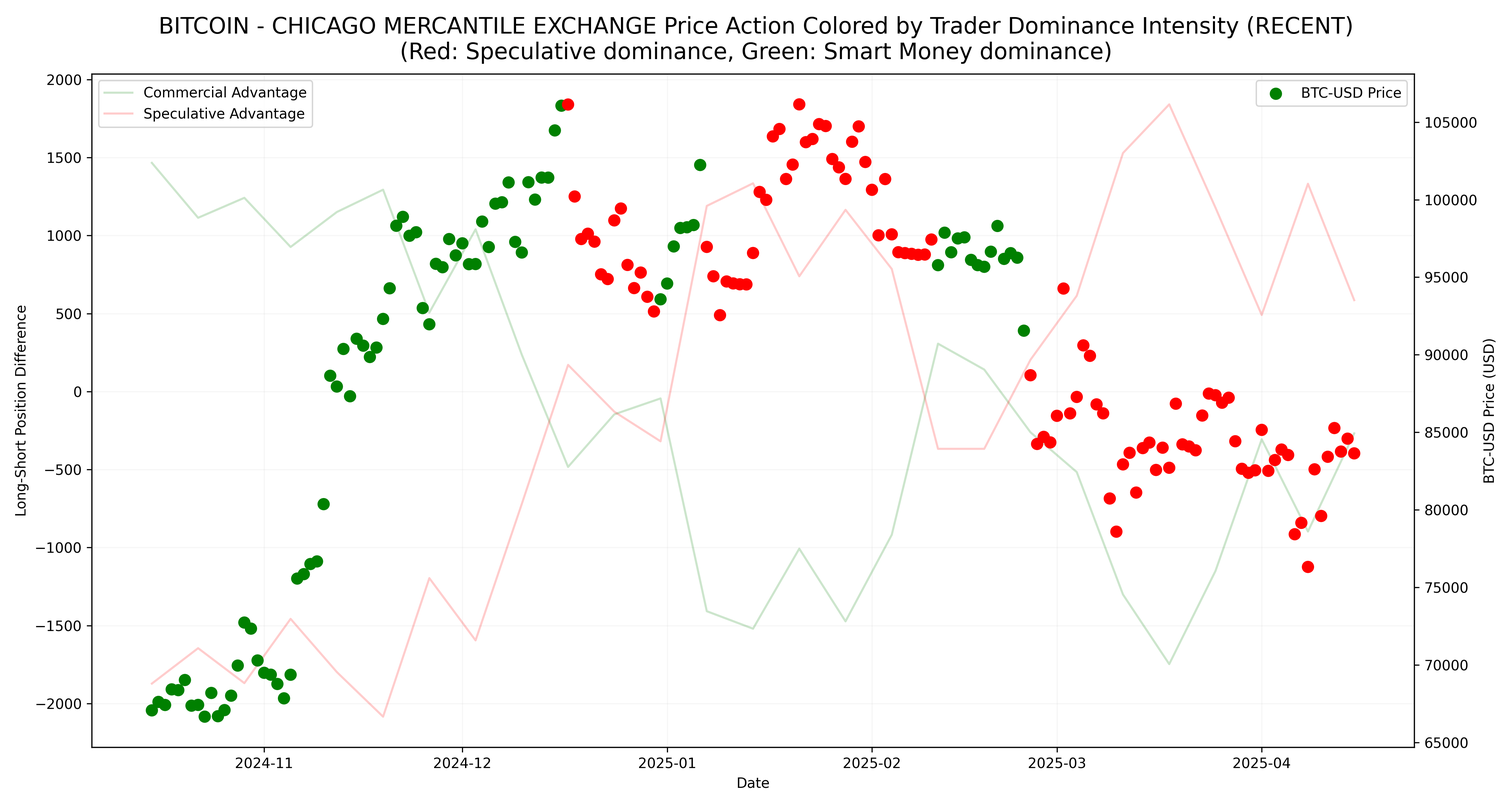
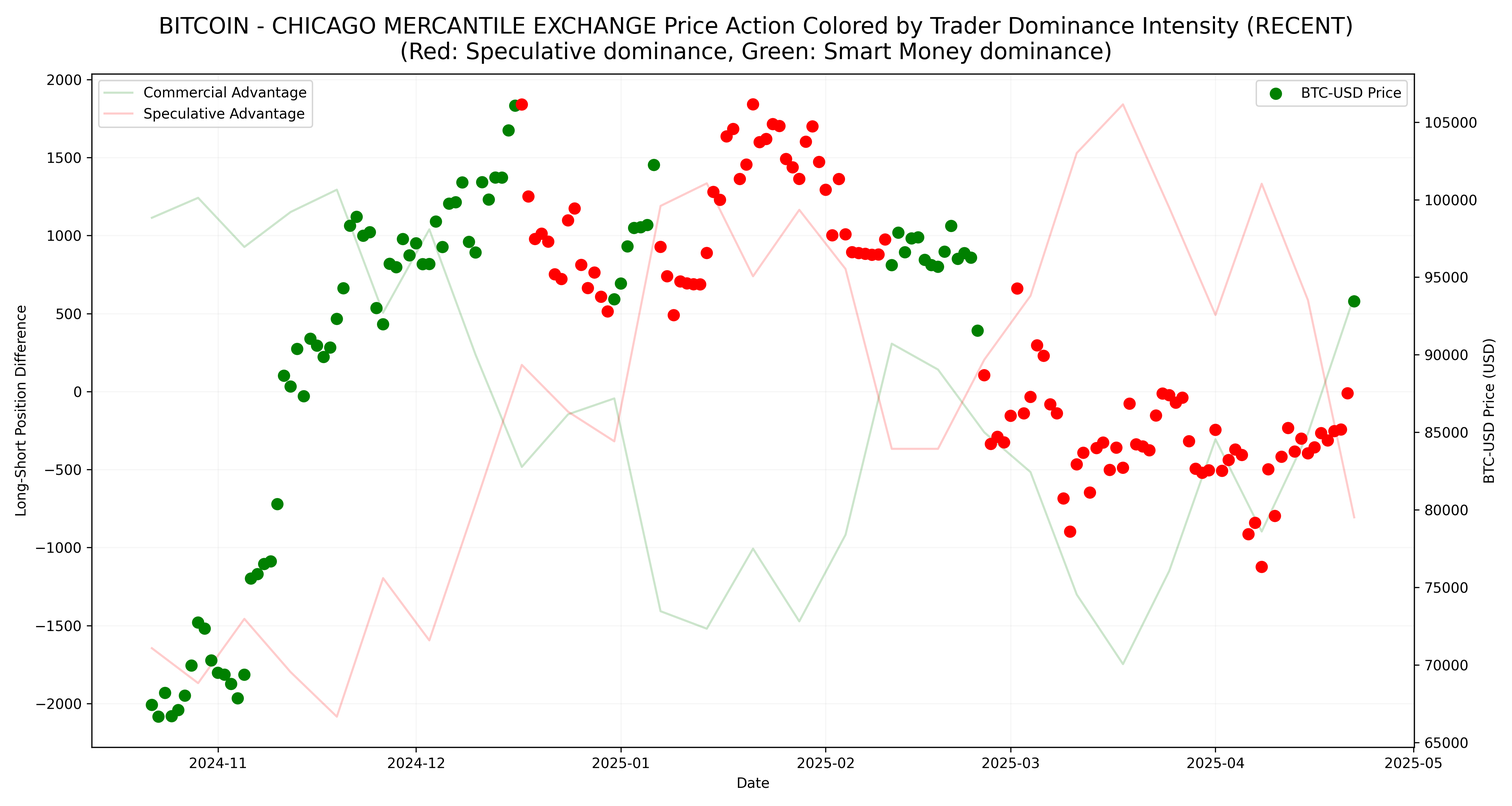
Daily update: 2025-04-26

diff --git a/index.html b/index.html
@@ -32,27 +32,27 @@
 </head>
 <body>
   <header>
-    <h1>Состояние крипто рынка на 25 April 2025 12:54</h1>
+    <h1>Состояние крипто рынка на 26 April 2025 16:32</h1>
     <p class="disclaimer">Эту страницу не следует толковать как финансовый совет.</p>
-     <p> Цена BTC-USD на момент анализа: 94229.99</p>
+     <p> Цена BTC-USD на момент анализа: 94378.32</p>
   </header>
   
   <section id="tldr">
     <h2>Общее Резюме (TLDR):</h2>
     <p>
-<h2>📊 Аналитический обзор крипторынка на 25 апреля 2025 года</h2>
+<h2>Аналитический отчёт по состоянию крипторынка на 26 апреля 2025 года</h2>
 
 <h3>Bitcoin (BTC)</h3>
-<p>BTC торгуется на уровне <strong>$94,229.99</strong>, что значительно ниже модели Stock-to-Flow (<strong>$401,988</strong>) — сохраняется фаза недооцененности. Циклическая модель указывает на зрелость текущего бычьего тренда с возможным пиком в интервале апрель–октябрь 2025 года. Однако <strong>моментум стратегия GTR сохраняет сигнал Sell</strong>, несмотря на недельный рост на фоне ETF-inflows и накопления китов. CFTC показывает начало усиления влияния Smart Money, но доминирование всё ещё у спекулянтов. Ончейн-метрики (рост Miner Unspent Supply, отрицательные биржевые потоки, рост активности адресов) подтверждают накопление, но перекупленность и высокий FOMO (индекс жадности 60) требуют осторожности.</p>
-<p><strong>🟡 На сегодняшний день оптимальной стратегией видится наблюдение и ожидание устойчивой консолидации — сигналы к покупке отсутствуют.</strong></p>
+<p>BTC торгуется на уровне <strong>$94,378</strong> — значительно ниже модели Stock-to-Flow (<strong>$401,579</strong>), что подтверждает фазу глубокой недооценённости. Циклическая модель продолжает указывать на зрелость бычьего тренда с возможным пиком между апрелем и октябрём 2025 года. Моментум по стратегии GTR остаётся в режиме <strong>Sell</strong>, указывая на ослабление восходящего тренда. Однако CFTC отчёт фиксирует укрепление влияния Smart Money, что является ранним бычьим сигналом. Ончейн-данные демонстрируют рост Miner Unspent Supply и отрицательный Net Flow, что говорит о накоплении. Тем не менее, высокий индекс «жадности» (65) требует осторожности. Социальные метрики усиливаются, что также увеличивает риск краткосрочных откатов.</p>
+<p><strong>🟡 На сегодняшний день оптимальной стратегией видится осторожное наблюдение за консолидацией BTC выше $93,000 с акцентом на подтверждение институциональной активности перед любыми покупками.</strong></p>
 
 <h3>Ethereum (ETH)</h3>
-<p>ETH торгуется на <strong>$1,767.17</strong> — слабая коррекция после теста сопротивления <strong>$1,800</strong>. Недельный рост +10%, но месячный тренд остаётся слегка отрицательным. Техническая структура в консолидации. CFTC подтверждает аналогичную BTC картину: рост влияния Smart Money, но спекулянты пока доминируют. Ончейн-сигналы сильны: рекордные покупки долгосрочными держателями и отток с бирж. Социальные метрики и активность адресов стабильны, что указывает на фундаментальную поддержку.</p>
-<p><strong>🟡 На сегодняшний день разумно удерживаться от активных покупок и следить за консолидацией на нынешних уровнях с возможным открытием длинного трейда на уровне 1619, в идеале - после подтверждения институциональной активности.</strong></p>
+<p>ETH консолидируется на уровне <strong>$1,803</strong> после попытки пробоя <strong>$1,839</strong>. Рост за неделю +10%, однако месячный тренд остаётся слегка отрицательным. По данным CFTC, ETH пока под контролем спекулянтов, но влияние Smart Money усиливается. Ончейн-метрики показывают отток монет с бирж и рост активности адресов, что является бычьими сигналами. Социальный сентимент нейтральный. В отличие от BTC, ETH ещё не получил чёткого подтверждения устойчивого институционального спроса.</p>
+<p><strong>🟡 На сегодняшний день разумной стратегией остаётся ожидание консолидации в диапазоне $1750–$1850 и подтверждения перехода под контроль Smart Money для возможного входа в длинные позиции.</strong></p>
 
 <h3>Альткоины</h3>
-<p>Альткоины остаются под давлением высокой доминации BTC. Ротация капитала минимальна, но отдельные активы — <strong>SUI, STX, ONDO, DOGE</strong> — демонстрируют сильный краткосрочный импульс. По <strong>SOL</strong> CFTC сигнализирует о доминировании Smart Money, но рост позиций спекулянтов повышает риск коррекции. Социальные метрики особенно позитивны по Solana. Тем не менее, альткоины в целом требуют жёсткой фильтрации — рынок фрагментирован, объёмы избирательны, и импульсы носят краткосрочный характер.</p>
-<p><strong>🟠 Альткоины требуют выборочного подхода и активного управления — возможны краткосрочные трейды, но с жёстким контролем рисков.</strong></p>
+<p>Альткоины продолжают находиться под давлением доминирования BTC. Общий рынок фрагментирован, объёмы слабые, ротация капитала ограничена. Некоторые активы (<strong>SUI, STX, ONDO, DOGE</strong>) демонстрируют краткосрочную силу, однако по данным CFTC и ончейн активностей большинство альткоинов уязвимы к коррекции. По Solana отмечено усиление позиций спекулянтов, что повышает вероятность краткосрочного отката несмотря на общий бычий настрой.</p>
+<p><strong>🟠 Альткоины требуют крайне выборочного подхода: допустимы краткосрочные сделки в сильных активах при обязательном жёстком контроле риска и подтверждении ончейн-активности.</strong></p>
 
 </p>
   </section>
@@ -69,7 +69,7 @@
     </p>
     <h3>Stock-to-flow, сегодня</h3>
     <img src="all_time_price_s2f_2Ydetail.png" alt="Stock-to-Flow сегодня">
-    <p>Модель Stock-tо-Flow:<br>Последняя дата:		2025-04-24<br>Цена на эту дату:		93849.88<br>Предсказанная цена:	401988.54<br>Предсказанная × 1SE:	719591.87<br>Предсказанная ÷ 1SE:	224564.50<br>Предсказанная × 2SE:	1439183.73<br>Предсказанная ÷ 2SE:	112282.25</p>
+    <p>Модель Stock-tо-Flow:<br>Последняя дата:		2025-04-25<br>Цена на эту дату:		94771.41<br>Предсказанная цена:	401579.29<br>Предсказанная × 1SE:	719059.70<br>Предсказанная ÷ 1SE:	224273.35<br>Предсказанная × 2SE:	1438119.40<br>Предсказанная ÷ 2SE:	112136.68</p>
   </section>
   
   <section id="cycle-analysis">
@@ -116,31 +116,31 @@
     </p>
     <p>
 <div style="font-family: Arial, sans-serif; border: 1px solid #ddd; padding: 15px; border-radius: 5px; background-color: #f9f9f9;">
-    <h2 style="color: #333;">Актуальный COT-отчёт для BITCOIN - CHICAGO MERCANTILE EXCHANGE на 2025-04-15</h2>
+    <h2 style="color: #333;">Актуальный COT-отчёт для BITCOIN - CHICAGO MERCANTILE EXCHANGE на 2025-04-22</h2>
     <hr>
 
     <h3>Smart Money (институциональные игроки)</h3>
     <ul>
-        <li><strong>Чистая позиция:</strong> -268 контрактов</li>
-        <li><strong>Изменение за неделю:</strong> +629 контрактов</li>
+        <li><strong>Чистая позиция:</strong> 612 контрактов</li>
+        <li><strong>Изменение за неделю:</strong> +880 контрактов</li>
         <li>✅ Уменьшение защитных позиций — возможна стабилизация или рост</li>
     </ul>
 
     <h3>Спекулянты (мелкие и средние игроки)</h3>
     <ul>
-        <li><strong>Чистая позиция:</strong> 586 контрактов</li>
-        <li><strong>Изменение за неделю:</strong> -746 контрактов</li>
+        <li><strong>Чистая позиция:</strong> -806 контрактов</li>
+        <li><strong>Изменение за неделю:</strong> -1392 контрактов</li>
         <li>⚠ Снижение оптимизма, осторожность или фиксация прибыли</li>
     </ul>
 
-    <h3><strong>Текущее доминирование:</strong> Спекулянты (розничные и мелкие трейдеры)</h3>
-    <h3><strong>Общий тренд:</strong> 🔴 Медвежий</h3>
+    <h3><strong>Текущее доминирование:</strong> Smart Money (крупные институциональные игроки)</h3>
+    <h3><strong>Общий тренд:</strong> 🟢 Бычий</h3>
     <img src="CFTC_ETH_recent.png" alt="Циклический анализ сегодня">
 
     <h3>Изменение баланса сил</h3>
     <ul>
-        <li><strong>Разница между Smart Money и спекулянтами:</strong> -854 контрактов</li>
-        <li><strong>Изменение за неделю:</strong> +1375 контрактов</li>
+        <li><strong>Разница между Smart Money и спекулянтами:</strong> 1418 контрактов</li>
+        <li><strong>Изменение за неделю:</strong> +2272 контрактов</li>
         <li>📈 Усиление влияния Smart Money — вероятный бычий сигнал</li>
     </ul>
 
@@ -152,20 +152,20 @@
 </p>
     <p>
 <div style="font-family: Arial, sans-serif; border: 1px solid #ddd; padding: 15px; border-radius: 5px; background-color: #f9f9f9;">
-    <h2 style="color: #333;">Актуальный COT-отчёт для ETHER CASH SETTLED - CHICAGO MERCANTILE EXCHANGE на 2025-04-15</h2>
+    <h2 style="color: #333;">Актуальный COT-отчёт для ETHER CASH SETTLED - CHICAGO MERCANTILE EXCHANGE на 2025-04-22</h2>
     <hr>
 
     <h3>Smart Money (институциональные игроки)</h3>
     <ul>
-        <li><strong>Чистая позиция:</strong> -987 контрактов</li>
-        <li><strong>Изменение за неделю:</strong> +167 контрактов</li>
+        <li><strong>Чистая позиция:</strong> -485 контрактов</li>
+        <li><strong>Изменение за неделю:</strong> +502 контрактов</li>
         <li>✅ Уменьшение защитных позиций — возможна стабилизация или рост</li>
     </ul>
 
     <h3>Спекулянты (мелкие и средние игроки)</h3>
     <ul>
-        <li><strong>Чистая позиция:</strong> 1034 контрактов</li>
-        <li><strong>Изменение за неделю:</strong> -183 контрактов</li>
+        <li><strong>Чистая позиция:</strong> 802 контрактов</li>
+        <li><strong>Изменение за неделю:</strong> -232 контрактов</li>
         <li>⚠ Снижение оптимизма, осторожность или фиксация прибыли</li>
     </ul>
 
@@ -175,8 +175,8 @@
 
     <h3>Изменение баланса сил</h3>
     <ul>
-        <li><strong>Разница между Smart Money и спекулянтами:</strong> -2021 контрактов</li>
-        <li><strong>Изменение за неделю:</strong> +350 контрактов</li>
+        <li><strong>Разница между Smart Money и спекулянтами:</strong> -1287 контрактов</li>
+        <li><strong>Изменение за неделю:</strong> +734 контрактов</li>
         <li>📈 Усиление влияния Smart Money — вероятный бычий сигнал</li>
     </ul>
 
@@ -188,7 +188,7 @@
 </p>
     <p>
 <div style="font-family: Arial, sans-serif; border: 1px solid #ddd; padding: 15px; border-radius: 5px; background-color: #f9f9f9;">
-    <h2 style="color: #333;">Актуальный COT-отчёт для NANO SOLANA - LMX LABS LLC на 2025-04-15</h2>
+    <h2 style="color: #333;">Актуальный COT-отчёт для NANO SOLANA - LMX LABS LLC на 2025-04-22</h2>
     <hr>
 
     <h3>Smart Money (институциональные игроки)</h3>
@@ -200,8 +200,8 @@
 
     <h3>Спекулянты (мелкие и средние игроки)</h3>
     <ul>
-        <li><strong>Чистая позиция:</strong> -962 контрактов</li>
-        <li><strong>Изменение за неделю:</strong> +524 контрактов</li>
+        <li><strong>Чистая позиция:</strong> -524 контрактов</li>
+        <li><strong>Изменение за неделю:</strong> +438 контрактов</li>
         <li>📈 Рост оптимизма, бычий настрой</li>
     </ul>
 
@@ -211,8 +211,8 @@
 
     <h3>Изменение баланса сил</h3>
     <ul>
-        <li><strong>Разница между Smart Money и спекулянтами:</strong> 962 контрактов</li>
-        <li><strong>Изменение за неделю:</strong> -524 контрактов</li>
+        <li><strong>Разница между Smart Money и спекулянтами:</strong> 524 контрактов</li>
+        <li><strong>Изменение за неделю:</strong> -438 контрактов</li>
         <li>⚠ Усиление позиций спекулянтов — повышенный риск коррекции</li>
     </ul>
 
@@ -236,90 +236,76 @@
   <section id="sentiment">
     <h3>Новостной и ончейн сентимент</h3>
     <p>
-<!-- Обзор рынка криптовалют за 25 апреля 2025 (Atlantic/Madeira) -->
 <div>
+  <p>Здесь кратко изложены ключевые выводы по состоянию рынка криптовалют на 26 апреля 2025 г.: Bitcoin слегка откатился от недавних максимумов, Ethereum консолидируется после попытки пробиться выше важного сопротивления. Повышенная активность «китов» на блокчейне зафиксирована в середине апреля, социальные метрики указывают на рост FOMO и «жадности». С точки зрения макроэкономики, слабые данные по ВВП США и смешанные показатели PMI держат рисковые активы в напряжении. Сегодня проходят Весенние встречи МВФ и Всемирного банка, впереди важные отчёты по ВВП США и крупнейшие крипто-конференции в мае.</p>
 
-  <p>Краткий обзор ключевых моментов: недельный ралли подняло Bitcoin выше $93 000 при рекордном накоплении китами, индекс страха–жадности слегка откатился от вчерашнего пика. Ethereum повторяет общерыночный бычий настрой, на ончейн видно рекордные еженедельные притоки к долгосрочным держателям. Альткоины отстают на фоне максимума доминирования BTC за 4 года, но некоторые токены (SUI, STX, ONDO) показывают двузначный рост. На макроуровне сегодня стартуют весенние встречи МВФ/ВБ, на горизонте — ключевые крипто-ивенты от Bitcoin Oasis в Дубае до N Crypto в Киеве.</p>
+  <h2>Анализ динамики цен BTC–USD</h2>
 
-  <h2>Bitcoin (BTC-USD)</h2>
+  <h3>Индекс страха и жадности</h3>
+  <p>Индекс Crypto Fear &amp; Greed на сайте <a href="https://alternative.me/crypto/fear-and-greed-index/">alternative.me</a> составляет <strong>65 (Жадность)</strong>, против 60 вчера; неделю назад он был на уровне 32, а месяц назад — 40.</p>
+
+  <h3>Текущая цена и дневное изменение</h3>
+  <p>Текущая цена: <strong>$94 250 USD</strong>, снижение за 24 часа −0,55%. Диапазон за сутки: $93 927 – $95 600. Подробнее: <a href="https://www.tradingview.com/symbols/BTCUSD/">TradingView BTCUSD</a>.</p>
+
+  <h3>Недельные и месячные тренды</h3>
   <ul>
-    <li><strong>Индекс страха и жадности:</strong> 60 («Жадность»), снизился с 63 вчера; на прошлой неделе 33 («Страх»), месяц назад 47 («Нейтрально»)  
-      <a href="https://alternative.me/crypto/fear-and-greed-index/">https://alternative.me/crypto/fear-and-greed-index/</a> 
-    </li>
-    <li><strong>Текущая цена:</strong>  
+    <li>+11,53 % за последнюю неделю</li>
+    <li>+8,33 % за последний месяц</li>
+  </ul>
+
+  <h2>Анализ динамики цен ETH–USD</h2>
+
+  <h3>Текущая цена и дневное изменение</h3>
+  <p>Текущая цена: <strong>$1 803,13 USD</strong>, рост за 24 часа +0,91%. Диапазон за сутки: $1 781,47 – $1 839,36. Подробнее: <a href="https://coinmarketcap.com/currencies/ethereum/">CoinMarketCap Ethereum</a>.</p>
+
+  <h3>Недельные и месячные тренды</h3>
+  <ul>
+    <li>+10 % за последнюю неделю</li>
+    <li>−17 % за последний месяц</li>
+  </ul>
+
+  <h2>Общий рынок и экономика</h2>
+  <ul>
+    <li>ВВП США за I квартал 2025 г. (предварительная оценка): ожидается +0,4 % г/г — самый слабый показатель с II квартала 2022 г. Источник: <a href="https://tradingeconomics.com/calendar">TradingEconomics — календарь событий</a>.</li>
+    <li>Базовый индекс цен PCE (март 2025): +2,8 % г/г, сохраняющееся давление инфляции. Подробнее: <a href="https://tradingeconomics.com/united-states/personal-consumption-expenditures-price-index-core">TradingEconomics — Core PCE</a>.</li>
+    <li>Composite PMI Китая (март 2025): 51,4 — максимум за три месяца. <a href="https://tradingeconomics.com/china/pmi">TradingEconomics — China Composite PMI</a>.</li>
+    <li>Caixin Manufacturing PMI Китая (март 2025): 51,2 — выше прогнозов. <a href="https://tradingeconomics.com/china/manufacturing-pmi">TradingEconomics — Caixin Manufacturing PMI</a>.</li>
+    <li>Composite PMI еврозоны (апрель 2025): 50,1 — едва выше уровня спада. <a href="https://tradingeconomics.com/euro-area/composite-pmi">TradingEconomics — Eurozone Composite PMI</a>.</li>
+    <li>Manufacturing PMI Франции (апрель 2025): 48,2 — в стадии сокращения. <a href="https://tradingeconomics.com/france/manufacturing-pmi">TradingEconomics — France Manufacturing PMI</a>.</li>
+    <li>Services PMI Франции (апрель 2025): 46,8 — заметно ниже прогнозов. <a href="https://tradingeconomics.com/france/services-pmi">TradingEconomics — France Services PMI</a>.</li>
+  </ul>
+
+  <h2>Недавние ключевые события</h2>
+  <ul>
+    <li>Crypto Horizon 2025 (Дубай, 23 апреля): фокус на институциональном принятии и регулировании. Источник: <a href="https://events.coinpedia.org/">Coinpedia Events</a>.</li>
+    <li>Весенние встречи МВФ и Всемирного банка (26 апреля, Вашингтон D.C.): центральные темы — глобальная устойчивость и цифровые валюты. Подробнее: <a href="https://www.imf.org/external/am">IMF Spring Meetings</a>.</li>
+  </ul>
+
+  <h2>Он-чейн аналитика</h2>
+  <ul>
+    <li>Крупные переводы BTC:
       <ul>
-        <li>$93 188.95, +0.56% за последние 24 ч</li>
-        <li>$93 213.75 в 10:38 местного времени, +0.28% интрадая
+        <li>1 000 BTC с биржи Kraken (16 апреля), примерно $84,9 млн. Источник: <a href="https://www.whale-alert.io/">Whale Alert</a>.</li>
+        <li>1 000 BTC (15 апреля), примерно $85,0 млн. Источник: <a href="https://www.whale-alert.io/">Whale Alert</a>.</li>
       </ul>
     </li>
-    <li><strong>Дневной тренд:</strong> умеренный рост относительно вчера, на фоне продолжения inflows в ETF и поддержки спотового рынка </li>
-    <li><strong>Недельный тренд:</strong> +≈10% с начала недели, после пробоя $88 000 и накопления китов </li>
-    <li><strong>Месячный тренд:</strong> с $81 481 (31 марта) до ~$93 289 сейчас, +≈14,5% в апреле</li>
+    <li>Активность в сети Ethereum: количество активных адресов выросло примерно на 10 % в период 20–22 апреля, что свидетельствует о повышенном вовлечении пользователей. Подробнее: <a href="https://www.tradingview.com/news/">TradingView News</a>.</li>
   </ul>
 
-  <h2>Ethereum (ETH-USD)</h2>
+  <h2>Социальные настроения и FOMO</h2>
   <ul>
-    <li><strong>Индекс страха и жадности:</strong> 60 («Жадность»), соответствует BTC</li>
-    <li><strong>Текущая цена:</strong> $1 767.17, −0.10% за 24 ч</li>
-    <li><strong>Дневной тренд:</strong> небольшой откат после теста сопротивления $1 800 </li>
-    <li><strong>Недельный тренд:</strong> +10% за неделю, выход из диапазона $1 500–$1 600 к ~$1 800 </li>
-    <li><strong>Месячный тренд:</strong> с ~$1 820 (31 марта) до $1 767, ≈−3% за месяц, умеренная консолидация</li>
+    <li>Розничный FOMO: резкий всплеск среди мелких трейдеров BTC по мере роста цены выше $94 000. Источник: <a href="https://defi-planet.com/2025/04/santiment-flags-retail-fomo-surge-as-bitcoin-tops-94k/">DeFi Planet</a>.</li>
+    <li>Общий сентимент по BTC по данным Santiment перешёл в «бычью» зону с оценкой 1,973. Подробнее: <a href="https://santiment.net/">Santiment</a>.</li>
   </ul>
 
-  <h2>Альткоины</h2>
+  <h2>Предстоящие события</h2>
   <ul>
-    <li><strong>Структура рынка:</strong> доминирование BTC удерживается на максимуме за 48 месяцев, что давит на широкий рынок альткоинов</li>
-    <li><strong>Лучшие 24 ч:</strong> SUI, STX с двузначным ростом; ONDO, GRT в топе; индекс CoinDesk 20 +≈3%</li>
-    <li><strong>Примеры:</strong> Dogecoin $0.1807, +4.20% за 24 ч</li>
-    <li><strong>Избранные идеи:</strong> аналитики выделяют DOGE, SOL, ONDO как перспективы в условиях ротации из BTC в альткоины</li>
-    <li><strong>Социальный шум:</strong> Solana лидирует в обсуждениях, что может предвещать институциональные драйверы</li>
+    <li><strong>Bitcoin Austin 2025</strong>: 7–9 мая, Остин, Техас. <a href="https://www.bitcoinaustintx.com/">Официальный сайт</a>.</li>
+    <li><strong>Cryptoverse Conference 2025</strong>: 5–9 мая, Маврикий. <a href="https://cryptoverse.mu/">Официальный сайт</a>.</li>
+    <li><strong>TokenizeThis 2025</strong>: 16–18 мая, Нью-Йорк. <a href="https://tokenizethis.io/">Официальный сайт</a>.</li>
   </ul>
-
-  <h2>Широкая картина рынка и экономики</h2>
-  <ul>
-    <li><strong>Весенние встречи МВФ/ВБ:</strong> 21–26 апреля, Вашингтон, ключевые сессии (IMFC Breakfast и Plenary) 25 апреля</li>
-    <li><strong>Торговые споры:</strong> глава МВФ Гиевера призвала к скорейшему урегулированию тарифов США для предотвращения углубления глобального спада</li>
-    <li><strong>Макрориски:</strong> геополитическая напряжённость (США–Китай) + ожидания по ставкам ФРС → потенциальная волатильность в рисковых активах, включая крипто</li>
-  </ul>
-
-  <h2>Ключевые недавние события</h2>
-  <ul>
-    <li><strong>Потоки в Bitcoin ETF:</strong> 22 апреля $912 млн inflows — в 500× выше среднедневных показателей 2025 </li>
-    <li><strong>Инициатива Швейцарии:</strong> призыв держать BTC в резервах SNB на фоне глобальной турбулентности</li>
-    <li><strong>Конференция по мошенничеству:</strong> London «Crypto & Digital Asset Fraud and Recovery», 24–25 апреля</li>
-  </ul>
-
-  <h2>Ончейн-события</h2>
-  <ul>
-    <li><strong>Накопление китов:</strong> адреса с 10 000–100 000 BTC прибавили 19 255 BTC за неделю, общий баланс 13.47 млн BTC (All-time high)  
-      <a href="https://whale-alert.io/">https://whale-alert.io/</a>
-    </li>
-    <li><strong>Притоки ETH:</strong> адреса-аккумуляторы купили 1.11 млн ETH за неделю до 23 апреля — рекорд 2025</li>
-  </ul>
-
-  <h2>Социальный сентимент</h2>
-  <ul>
-    <li><strong>FOMO-показатели:</strong> Santiment предупреждает о всплеске розничного FOMO после роста BTC выше $94 K, что может привести к коррекции</li>
-    <li><strong>Индекс страха–жадности:</strong> на уровне «Жадность» (60), но ниже вчерашнего пика — сигнал осторожности при высоких оценках</li>
-  </ul>
-
-  <h2>События сегодня (25 апреля 2025)</h2>
-  <ul>
-    <li>Solana Crossroads 2025, Стамбул, 25–26 апреля </li>
-    <li>Cornell Blockchain Conference, Нью-Йорк, 25 апреля, 9:00–18:00 </li>
-    <li>Crypto & Digital Asset Fraud and Recovery, Лондон, 24–25 апреля (финальный день) </li>
-    <li>Swiss Bitcoin Conference, Швейцария, 24–27 апреля</li>
-    <li>IMFC Plenary (часть весенних встреч МВФ/ВБ), Вашингтон, 25 апреля </li>
-  </ul>
-
-  <h2>Предстоящие ключевые даты</h2>
-  <ul>
-    <li>Cryptosphere 2025, Вроцлав, Польша, 26 апреля </li>
-    <li>N Crypto Conference, Киев, 27 апреля </li>
-    <li>Bitcoin Oasis 2025, Дубай, 28–29 апреля </li>
-  </ul>
-
 </div>
+
 
 
 </p>
